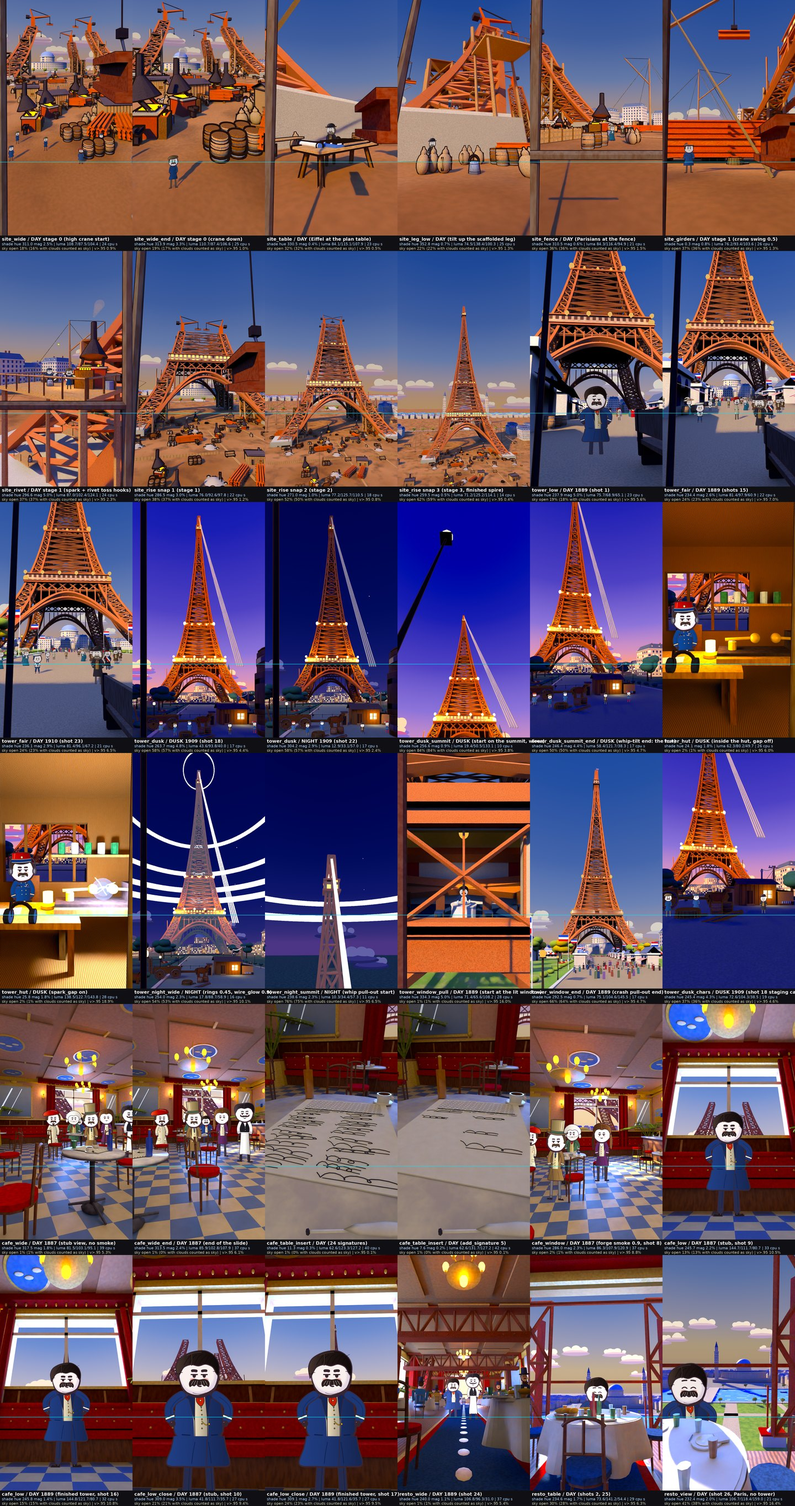
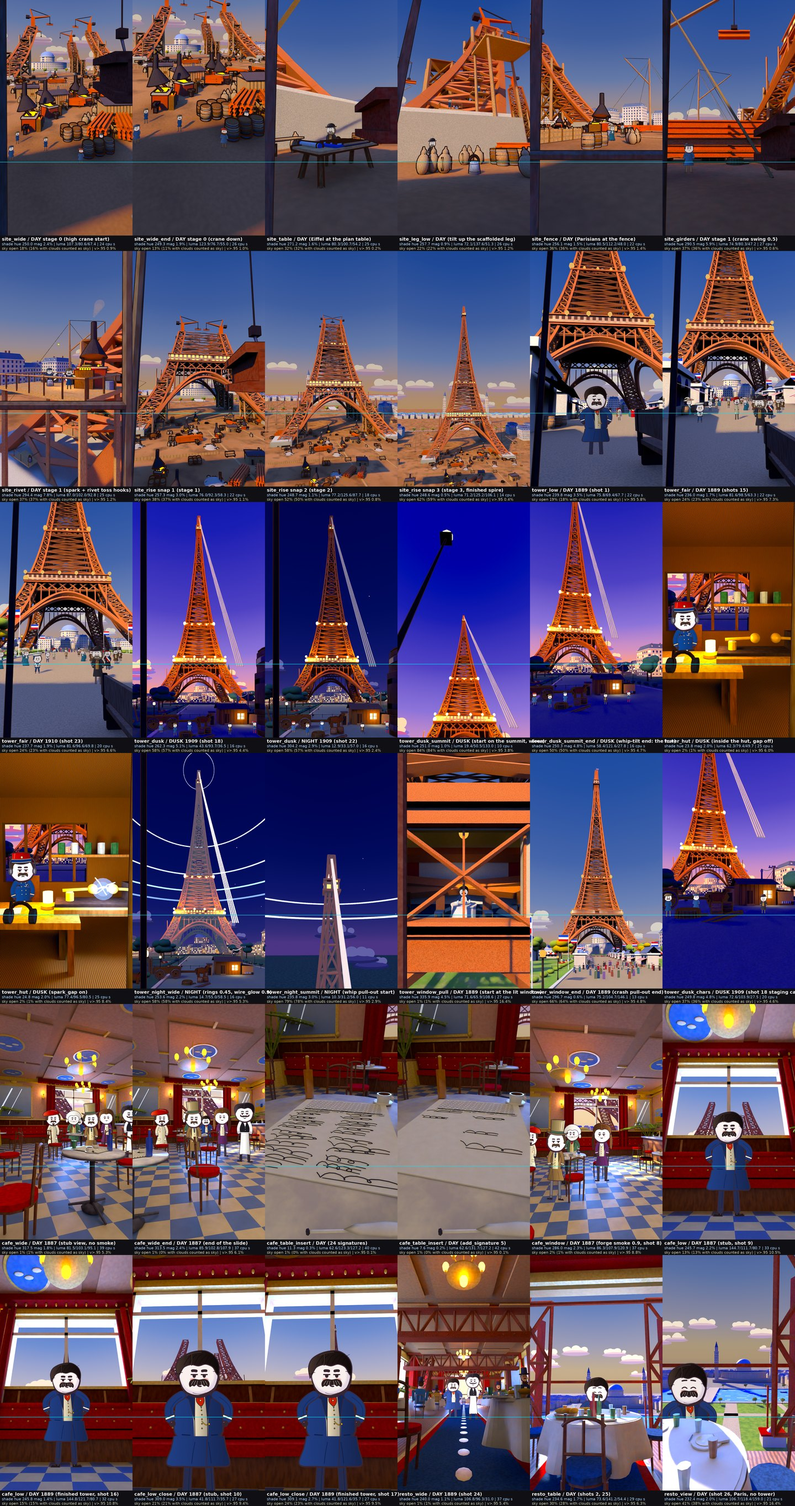
Film 20: exterior SET fixes round 1 (ground holes, site cameras, night rings, hut, window pull, crowd, dusk chars cam)

diff --git a/film/v3/set3d20/site20.py b/film/v3/set3d20/site20.py
@@ -12,7 +12,7 @@ from kit20 import tw, th, Z1, Z2
 # ------------------------------------------------------------------ lights (DAY)
 SKY_DAY = ['#f2c89a', '#eec4a4', '#cfc0cc', '#94aee8', '#6a8cdc', '#4c74d2', '#3a62c8']
 LIGHTS = dict(
-    DAY=dict(sky=SKY_DAY, sky_k=0.8, amb=('#6286FF', 2.4), key=(1.0, 0.82, 0.58, 8.0), key_dir=(0.50, 0.42, -0.42), sun_angle=1.0, exposure=-0.7, sat=1.08, lamp=1.0),
+    DAY=dict(sky=SKY_DAY, sky_k=0.8, amb=('#507FFF', 2.4), key=(1.0, 0.82, 0.58, 8.0), key_dir=(0.50, 0.42, -0.42), sun_angle=1.0, exposure=-0.7, sat=1.08, lamp=1.0),
     LATE=dict(sky=['#f0a878', '#e8a090', '#c8a0b8', '#8a8cd8', '#6a76d0', '#5266c4', '#3a4cb8'], sky_k=0.8, amb=('#5a74F8', 2.0), key=(1.0, 0.66, 0.42, 7.0), key_dir=(0.62, 0.30, -0.30), sun_angle=1.2, exposure=-0.7, sat=1.1, lamp=1.0),
 )
 
@@ -376,15 +376,23 @@ def _staging(A):
     S['site_rivet'] = [('riveter_tongs', 'riveter_tongs'), ('riveter_hammer', 'riveter_catch'), ('riveter_forge', 'riveter_hammer')]
     for n in ('site_rise', 'site_rise_snap1', 'site_rise_snap2', 'site_rise_snap3'): S[n] = []
     STATE['staging'] = S
-SHADE_ZONE = dict(site_wide=(13.5, 18.0, 9.0, 20.0), site_wide_end=(9.0, 16.0, 8.0, 18.0), site_table=(3.5, 9.0, 5.0, 14.0), site_leg_low=(3.0, 9.0, 5.0, 14.0), site_fence=(3.5, 9.0, 5.0, 14.0),
-                  site_girders=(3.5, 9.0, 5.0, 14.0), site_rivet=(17.0, 16.0, 12.0, 22.0), site_rise=(50.0, 50.0, 30.0, 30.0), site_rise_snap1=(50.0, 50.0, 30.0, 30.0), site_rise_snap2=(70.0, 70.0, 40.0, 40.0), site_rise_snap3=(90.0, 90.0, 50.0, 50.0))
+SHADE_ZONE = dict(site_wide=(13.5, 18.0, 9.0, 20.0), site_wide_end=(9.0, 16.0, 8.0, 18.0), site_table=(4.5, 12.0, 8.0, 16.0), site_leg_low=(4.0, 12.0, 8.0, 16.0), site_fence=(3.5, 9.0, 5.0, 14.0),
+                  site_girders=(6.0, 22.0, 14.0, 18.0), site_rivet=(17.0, 16.0, 12.0, 22.0), site_rise=(50.0, 50.0, 30.0, 30.0), site_rise_snap1=(50.0, 50.0, 30.0, 30.0), site_rise_snap2=(70.0, 70.0, 40.0, 40.0), site_rise_snap3=(90.0, 90.0, 50.0, 50.0))
+def auto_zone(cam, frac=0.94, wscale=1.3):
+    """(ahead m, width, depth, height) of the ground under the bottom eighth of the frame of cam (metres)"""
+    loc, f, r, u = K.cam_basis(cam); sh = cam.get('shift', 0.0); pitch = math.asin(max(-1.0, min(1.0, f.z)))
+    rel = math.atan((0.5 + sh - frac) * 1.636); ang = pitch + rel
+    if ang > -0.05: return None
+    dist_h = loc.z / math.tan(-ang); d3 = math.hypot(dist_h, loc.z)
+    return (dist_h, 2 * 0.46 * d3 * wscale, max(6.0, dist_h * 0.28), 14.0 + dist_h * 0.35)
+
 def _shade_casters(A, P):
     """invisible sun-blockers (shadow only, not seen by the camera) that put the foreground ground / props of the preset camera in cast shade (QA: the nearest 15 % of the frame in shade)."""
     sun = Vector(P['key_dir']).normalized(); M = STATE['M']; R = C.root(); mb = MB('shade_casters', R); cam = CAMS_M[A['preset']]
     def caster(c, w, d, hgt):
         off = Vector((-sun.x, -sun.y, 0)) * (hgt / -sun.z); mb.box(M['dark'], (c.x + off.x, c.y + off.y, c.z + hgt), (w, d, 0.2))
     loc, f, r, u = K.cam_basis(cam)
-    z = SHADE_ZONE.get(A['preset'])
+    z = auto_zone(cam) if A['preset'] in ('site_rivet', 'site_rise', 'site_rise_snap1', 'site_rise_snap2', 'site_rise_snap3') else SHADE_ZONE.get(A['preset'])
     if z:
         fh = Vector((f.x, f.y, 0)); fh.normalize(); caster(Vector((loc.x, loc.y, 0)) + fh * z[0], z[1], z[2], z[3])
     for o in mb.finish(): o.visible_camera = False

diff --git a/film/v3/set3d20/tower20.py b/film/v3/set3d20/tower20.py
@@ -11,8 +11,8 @@ from kit20 import tw, th, Z1, Z2, Z3
 
 # ------------------------------------------------------------------ lights
 LIGHTS = dict(
-    DAY=dict(sky=['#f2c89a', '#eec4a4', '#cfc0cc', '#94aee8', '#6a8cdc', '#4c74d2', '#3a62c8'], sky_k=0.85, amb=('#7088FF', 2.5), key=(1.0, 0.84, 0.62, 8.5), key_dir=(0.30, 0.62, -0.46), sun_angle=1.0, exposure=-0.55, sat=1.08, lamp=0.12),
-    DUSK=dict(sky=['#f6a878', '#f0a07e', '#c890b4', '#8a78cc', '#5a52b8', '#3a3ca8', '#262c98'], sky_k=1.0, amb=('#2a3cFF', 0.95), key=(1.0, 0.66, 0.4, 3.6), key_dir=(0.6, 0.55, -0.1), sun_angle=1.5, exposure=0.25, sat=1.1, lamp=1.0),
+    DAY=dict(sky=['#f2c89a', '#eec4a4', '#cfc0cc', '#94aee8', '#6a8cdc', '#4c74d2', '#3a62c8'], sky_k=0.85, amb=('#6a8AFF', 2.5), key=(1.0, 0.84, 0.62, 8.5), key_dir=(0.30, 0.62, -0.46), sun_angle=1.0, exposure=-0.55, sat=1.08, lamp=0.12),
+    DUSK=dict(sky=['#f6a878', '#f0a07e', '#c890b4', '#8a78cc', '#5a52b8', '#3a3ca8', '#262c98'], sky_k=1.0, amb=('#2a38FF', 0.95), key=(1.0, 0.66, 0.4, 3.6), key_dir=(0.6, 0.55, -0.1), sun_angle=1.5, exposure=0.25, sat=1.1, lamp=1.0),
     NIGHT=dict(sky=['#4a3a78', '#3a3470', '#2a2c68', '#1e2260', '#161a54', '#10144a', '#0a0e3c'], sky_k=1.0, amb=('#3a44F8', 0.55), key=(0.55, 0.66, 1.0, 0.9), key_dir=(0.35, 0.55, -0.55), sun_angle=2.5, exposure=0.35, sat=1.1, lamp=1.35),
 )
 HUT = (-0.5, -203.0)               # hut centre (m)
@@ -342,7 +342,7 @@ def _spark_gap(M):
     mb.rod(bb, sg + Vector((-0.55, 0, -0.02)), sg + Vector((-0.2, 0, 0)), 0.022, 0.02, 8); mb.rod(bb, sg + Vector((0.55, 0, -0.02)), sg + Vector((0.2, 0, 0)), 0.022, 0.02, 8)
     mb.box(M['dark'], sg + Vector((0, 0.05, -0.2)), (1.3, 0.4, 0.06)); mb.cyl(M['glasswine'], sg + Vector((-0.45, 0.1, -0.1)), 0.05, 0.16, 'z', 8); mb.cyl(M['glasswine'], sg + Vector((0.45, 0.1, -0.1)), 0.05, 0.16, 'z', 8)
     mb.finish()
-    mb = MB('sg_dyn', R); mat_e = mat_emit('sparkc_h', '#e6f2ff', 35.0)
+    mb = MB('sg_dyn', R); mat_e = mat_emit('sparkc_h', '#e6f2ff', 25.0)
     p = sg + Vector((-0.07, 0, 0))
     for k in range(7):                                                  # jagged arc between the balls (thin, blue-white)
         q = Vector((sg.x - 0.07 + 0.14 * (k + 1) / 7.0, sg.y, sg.z + rr.uniform(-0.035, 0.035))); mb.rod(mat_e, p, q, 0.011, 0.01, 4); p = q
@@ -355,7 +355,7 @@ def _spark_gap(M):
     l = bpy.data.lights.new('sg_light', 'POINT'); l.color = (0.55, 0.72, 1.0); l.energy = 0.0; l.shadow_soft_size = 0.1 * SC
     ob = bpy.data.objects.new('sg_light', l); bpy.context.scene.collection.objects.link(ob); ob.location = W(sg + Vector((0, -0.3, 0.1))); ob.visible_camera = False; STATE['sg_light'] = ob
     for o in dyn: o.hide_render = True
-SG_ENERGY = 110.0
+SG_ENERGY = 60.0
 def spark_gap(on, frame=None):
     """spark gap on the hut bench: two brass balls + a thin jagged blue-white arc + a small halo (12-24 px at tower_hut) and a blue point light, only while on. Key it on every frame of the Morse taps."""
     for o in STATE['sg_dyn']: C.setv(o, bool(on), frame)

diff --git a/film/v3/set3d20/API.md b/film/v3/set3d20/API.md
@@ -133,3 +133,17 @@ The seated Maupassant has no seated puppet pose yet (stand-in card is lowered); 
 * Weak: site_table / site_leg_low (shade magenta 13 %: the red leg iron shades crimson, and both are dark and cluttered, composition is a start pose for the render team to move), site_wide_end shade; the SITE ground cams are cluttered with the camera-frustum scatter; the crowd and the workers' 3D standees are flat colour columns; the window room in tower_window_pull is dark/striped at the start pose; hut bottom eighth / spark tile V>.95 55 % while the arc is on (a blinding flash by design).
 * Stage 0 legs are 50 m high (brief says ~30 m).
 * **Caption band conflict:** at the board camera of `tower_dusk` / `tower_night_wide` (shift 0.345) the avenue-foot marks (`eiffel_old officer demo_*`) sit at head y ~1200 px (below the y 880 caption line, 20 px heads). To keep heads above 880 the render team must raise the camera (lower `shift`, or `loc` z ~ 12 m) for the character shots 18/22, or use the marks with a camera pitched down; I kept the approved board framing for the whole-tower read.
+
+
+## SET-gate fix round (2026-11-20): what changed in SITE / TOWER
+* **Black ground rectangles:** the cause was thin flat boxes (< ~0.05 m) self-shadowing in the 600 m scene. Flat ground decals are gone (ground variation is in the ground shader, plus a darker warm "trampled apron" in the ground shader under each camera's nearest 15 %), girder flanges / blueprint sheets are >= 0.07 m thick, and the close SITE cameras use diffuse bounce 1 so undersides of platforms are not black. Shade casters are invisible to the camera (`visible_camera = False`).
+* **site_wide / site_wide_end:** camera 10 m / 8 m up (shift_y -0.2 / -0.28), the six workers at 14-19 m: heads y 724-834 at the start, y <= 733 at the end pose, body 69-90 px (all >= 60). Smoke = 3-5 overlapping soft translucent puffs (`#b8aec8`).
+* **site_table:** camera on the sunlit side, 6.5 m from the plan table in front of the FRONT-RIGHT leg (`PLAN_TABLE` = (49, -73.4) m): lit table with unrolled greeked blueprint, rolled plans, inkwell, stool; Eiffel (mark `eiffel_table`) 56 px head / ~180 px body, head y ~695; girder end FG.
+* **site_leg_low:** camera at the foot of the OUTER (sunlit, -y) face of the front-left leg; three cantilever work platforms with rails on the leg face (marks `leg_a leg_b leg_c`, z 5.5 / 9.5 / 13.5 m) carry the riveters; Eiffel `eiffel_leg` head below y 880 (shift_y -0.2).
+* **site_girders:** camera south of three 11 m x 7 x 6 red-lead I-girder piles (scaled x1.7), two carriers (`girder_carry_a/b`) with a girder on their shoulders in the nearest 40 %; derrick + hanging girder at (-84,-14) m; sacks, coils, kegs, wheelbarrow, bucket near the lens.
+* **Sparks / rivet:** `spark` = 14 short emissive streaks (oriented along the flight), `rivet_toss` = a small glowing cylinder (emission 60).
+* **TOWER night:** `wire_glow(v)` keeps the lattice red-brown (iron emission 0.1 x v) and brightens the four wires (0.2 + 1.4 v <= 1.6); `signal_rings(t)` = horizontal fading ellipses in the plane z = 300 m, `#9ac0ff`, radius 12 -> 820 m (reach the city lights), 3-4 visible at once; ~520 city light dots on the ground at DUSK / NIGHT. Antenna wires: r 0.25 m, base `#b4a99e`, emission 0.2.
+* **tower_hut:** plank walls / ceiling / floor (no noise), spark gap (brass balls + jagged arc + 12-24 px halo) at the bench in the right third (camera looks straight along +y), spark light 60 (V>.95 9.2 -> see hue_report).
+* **tower_window_pull:** the facade is flat cream framed by riveted red-brown lattice girders (belts, posts, X-braced panels, two diagonals across the glass); lit interior (cream wall, navy carpet, white cloths, blue chairs, 3 gas lamps); camera 6.2 m from the glass.
+* **tower_fair:** 24 cast20 crowd cards (`set_crowd` levels 8 / 16 / 24 cards + far standees) >= 40 px in the midground; **1910 differs** from 1889: pavilions and kiosks are gone, a 1910 biplane crosses the sky, the antenna wires and hut are up (`set_year(1910)`).
+* **tower_dusk_chars** (new camera, `tower_dusk` presets, shots 18 / 22): (-8,-224,1.6) m, shift_y +0.10: old Eiffel, officer, three demolition men with heads y 600-850.
